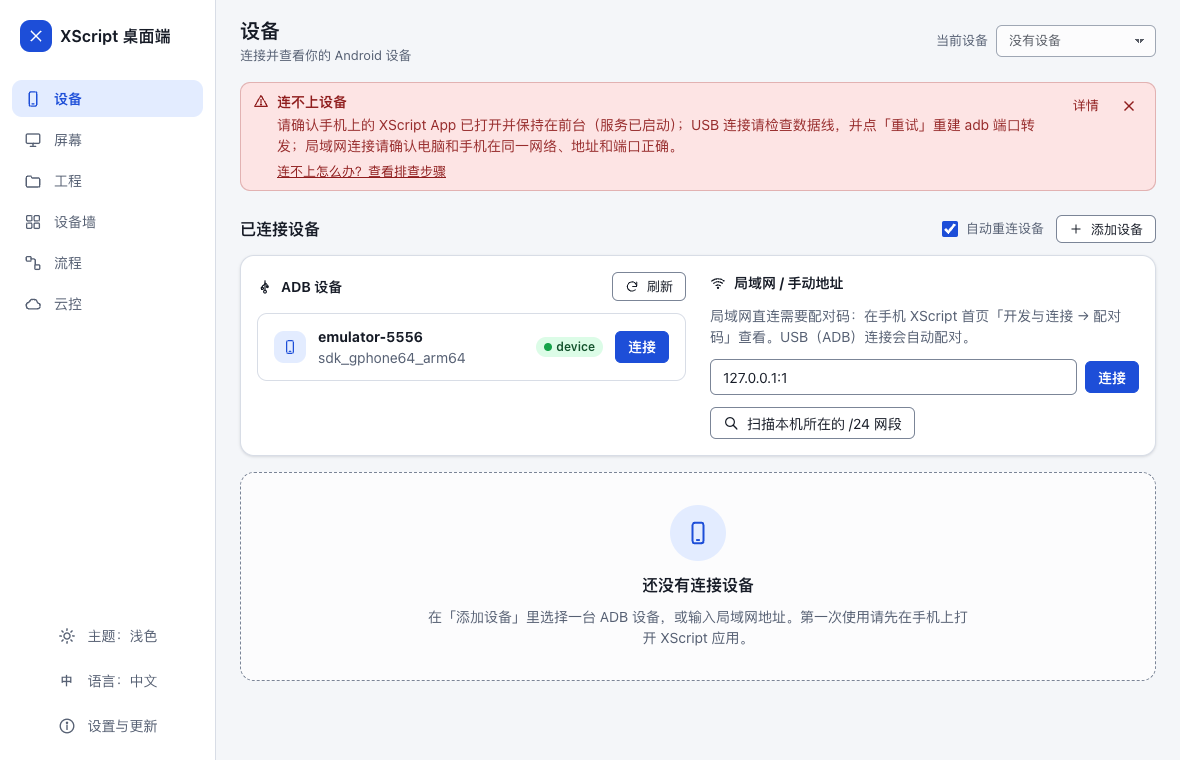
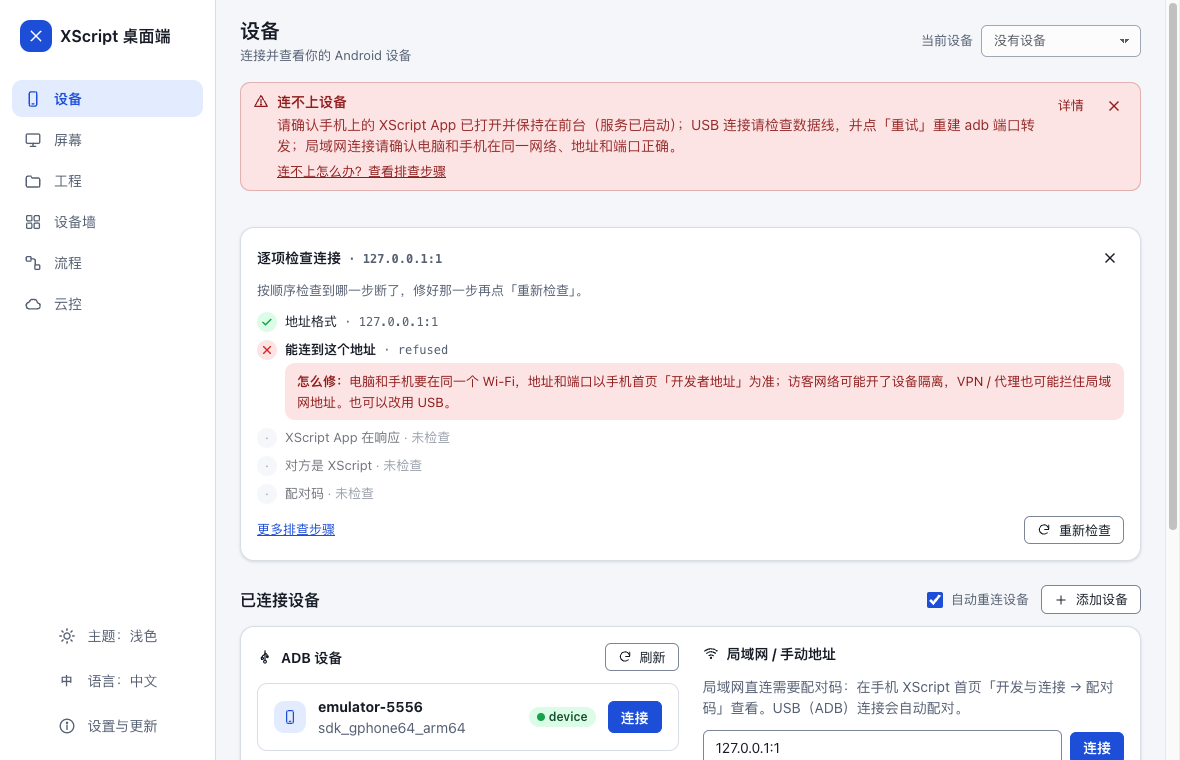
docs: document the connection check and refresh desktop screenshots

diff --git a/desktop/app/tools/screenshot-connect-check.js b/desktop/app/tools/screenshot-connect-check.js
@@ -1,0 +1,14 @@
+// docs/images/desktop-connect-check-*.png: 设备页 → 连接 ADB 设备（手机上的 XScript 未打开）→ 「逐项检查连接」停在「XScript App 在响应」.
+(async () => {
+  const sleep = (ms) => new Promise((r) => setTimeout(r, ms));
+  const wait = async (pred) => {
+    for (let i = 0; i < 80 && !pred(); i++) await sleep(150);
+    return pred();
+  };
+  const nav = [...document.querySelectorAll("button")].find((b) => b.querySelector(".label") && /设备|Devices/.test(b.querySelector(".label").textContent));
+  nav?.click();
+  const btn = await wait(() => [...document.querySelectorAll("button")].find((b) => /^(连接|Connect) /.test(b.getAttribute("aria-label") || "")));
+  btn?.click();
+  await wait(() => document.querySelector(".connect-check .check-step.bad"));
+  document.querySelector(".connect-check")?.scrollIntoView({ block: "center" });
+})();

diff --git a/docs/截图.md b/docs/截图.md
@@ -17,7 +17,8 @@
 | 桌面端各页（`desktop-after-*.png`） | `cd desktop/app && python -m xscript_desktop --screenshot out.png --connect-adb <serial> --click-screenshot --theme dark --size 1180x760`（`--theme` 会真的去按侧栏的主题按钮） |
 | 桌面端工程页（`desktop-projects-{light,dark}.png`） | 设备上放一个带子文件夹的工程「每日签到」，然后 `python -m xscript_desktop --screenshot out.png --connect-adb <serial> --run-js tools/screenshot-projects.js --screenshot-delay 4 --theme light --size 1180x760`，深色把 `light` 换成 `dark` |
 | 桌面端工程搜索（`desktop-projects-search-{light,dark}.png`） | 设备上放工程「每日签到」（几个文件里用到 `ocr_click`），然后同上，把 `--run-js` 换成 `tools/screenshot-search.js`、`--screenshot-delay 6`；用 `--data-dir` 指向临时目录，不碰自己的桌面端数据 |
-| 桌面端连不上设备提示（`desktop-connect-error-{light,dark}.png`） | `python -m xscript_desktop --data-dir <临时目录> --screenshot out.png --run-js tools/screenshot-connect-error.js --screenshot-delay 5 --theme light --size 1180x760`，深色把 `light` 换成 `dark`；不需要设备 |
+| 桌面端连不上设备提示（`desktop-connect-error-{light,dark}.png`） | `python -m xscript_desktop --data-dir <临时目录> --screenshot out.png --run-js tools/screenshot-connect-error.js --screenshot-delay 6 --theme light --size 1180x760`，深色把 `light` 换成 `dark`；不需要设备 |
+| 桌面端逐项检查连接（`desktop-connect-check-{light,dark}.png`） | 手机上先强制停止 XScript（`adb shell am force-stop <包名>`），然后 `python -m xscript_desktop --data-dir <临时目录> --screenshot out.png --run-js tools/screenshot-connect-check.js --screenshot-delay 9 --theme light --size 1180x760`，深色把 `light` 换成 `dark` |
 | VS Code 插件（`vscode-run.png`、`vscode-debug.png`） | `ide/vscode-extension/scripts/vscode-screenshots.sh`：真实 VS Code、隔离配置、模拟器上的演示工程，通过 DevTools 协议截图 |
 | 手机端（`phone-*.png`） | 在一次性模拟器上打开对应页面后 `adb -s <serial> exec-out screencap -p > docs/images/phone-xxx.png` |
 | PyCharm 插件、网页 IDE、管理后台（`pycharm-*`、`ide-*`、`admin-*`） | 目前手动截图：演示工程 / 演示数据，窗口宽度和现有截图保持一致 |

diff --git a/docs/桌面端设计.md b/docs/桌面端设计.md
@@ -1330,6 +1330,7 @@ PRAGMA user_version = 1;
   - **热插拔**：设备页可见时前端每 2.5 s 静默刷新一次 ADB 列表（页面隐藏或上一次还没回来时跳过）。Python 拿上一次的列表做基线：一个序列号**新出现**或从 `unauthorized`/`offline` 变成 `device`，且它有 `auto_connect=1` 的已保存行、当前没有在线记录，就在后台连接（结果走 `device.state`）。第一次列表只建基线（启动由 `connect_saved` 负责）。
   - **健康轮询**：每轮对所有设备**并行**请求 `/status`，单次超时 3 s（原来串行、沿用连接超时）；超时记为离线 + `device.timeout`；请求途中被替换或删除的记录丢弃结果。
   - **局域网扫描**：先扫所有主机的默认端口 9860，再扫 9861–9869；带 `scanId` 时推 `device.scan.found`（每发现一台）和 `device.scan.progress`（节流 0.25 s），`device.scan.cancel` 可中途停止，返回已发现的设备和 `cancelled`。
+  - **逐项检查**（`device.check`，2026-10-21）：`{transport: "adb", serial}` 或 `{transport: "lan", address}`，按 adb → device → authorized → forward（局域网为 address → reach）→ app → xscript → pairing 逐步检查，停在第一个失败的步骤，返回 `{ok, steps: [{id, ok, detail}]}`（没走到的步骤 `ok: null`）。不注册设备，自己建的端口转发和探测连接用完即删；已连接的 USB 设备沿用它的转发。前端在连接失败（连不上、超时、协议不对、adb 设备未就绪）后自动显示「逐项检查连接」面板，地址写错和找不到 adb 只显示错误提示。
   - **当前设备**：前端全局一份（顶栏切换，`localStorage` 记住，重启后恢复）；屏幕、工程页跟随它。编辑器有未保存修改时，切换设备或「忘记」当前设备都先在应用内确认。
 - **WAL 与网络盘/杀软**：把数据库放在本机 `%LOCALAPPDATA%`（不放在网络驱动器）；杀软锁文件的情形 ⚠ 未验证。
 

diff --git a/docs/使用手册.md b/docs/使用手册.md
@@ -544,6 +544,10 @@ yolo export model=runs/detect/train/weights/best.pt format=onnx imgsz=640
 
 **连不上设备时**：设备页顶部的红色提示说明可能的原因，下面的「连不上怎么办？查看排查步骤」会在浏览器里打开 [连不上手机怎么办](TROUBLESHOOTING.md)。设备响应超时、需要配对、地址不像 XScript 设备时也有这条链接。
 
+连接失败后，提示下面会自动出现 **逐项检查连接**：USB 设备按「找到 adb → adb 能看到手机 → 已允许 USB 调试 → 端口转发 → XScript App 在响应 → 对方是 XScript → 配对码」，局域网地址按「地址格式 → 能连到这个地址 → XScript App 在响应 → 对方是 XScript → 配对码」逐步检查，停在第一个不通的步骤并给出修法。修好后点 **重新检查**；全部通过时出现 **连接** 按钮。检查本身不会连接设备，也不会留下端口转发。
+
+![桌面端「逐项检查连接」：手机上的 XScript 没打开，停在「XScript App 在响应」并给出修法](images/desktop-connect-check-light.png)
+
 ![桌面端设备页：「连不上设备」提示和排查步骤链接](images/desktop-connect-error-light.png)
 
 - **macOS**（Apple Silicon）：下载 `xscript-desktop-vX.Y.Z-macos-arm64.dmg`，打开后把 XScript 拖进「应用程序」。安装包只有 ad-hoc 签名、没有公证，第一次打开要在「系统设置 → 隐私与安全性」里点「仍要打开」（macOS 14 及以下：右键 →「打开」）。

diff --git a/desktop/README.md b/desktop/README.md
@@ -70,7 +70,15 @@
 | --- | --- |
 | ![连不上设备浅色](../docs/images/desktop-connect-error-light.png) | ![连不上设备深色](../docs/images/desktop-connect-error-dark.png) |
 
-重新生成：`python -m xscript_desktop --data-dir <临时目录> --screenshot out.png --run-js tools/screenshot-connect-error.js --screenshot-delay 5 --theme light --size 1180x760`（脚本在设备页连接 `127.0.0.1:1`，不需要设备）。
+重新生成：`python -m xscript_desktop --data-dir <临时目录> --screenshot out.png --run-js tools/screenshot-connect-error.js --screenshot-delay 6 --theme light --size 1180x760`（脚本在设备页连接 `127.0.0.1:1`，不需要设备；下面同时出现「逐项检查连接」，停在「能连到这个地址」）。
+
+连接失败后自动出现的「逐项检查连接」（USB 设备，手机上的 XScript 没打开）：
+
+| 浅色 | 深色 |
+| --- | --- |
+| ![逐项检查浅色](../docs/images/desktop-connect-check-light.png) | ![逐项检查深色](../docs/images/desktop-connect-check-dark.png) |
+
+重新生成：手机上先强制停止 XScript，然后把上面的 `--run-js` 换成 `tools/screenshot-connect-check.js`、`--screenshot-delay 9`。
 
 ## P5 安装包与更新（已实现）
 

diff --git a/docs/TROUBLESHOOTING.md b/docs/TROUBLESHOOTING.md
@@ -35,7 +35,7 @@ adb -s <设备> forward tcp:9860 tcp:9860       # 端口以手机首页为准
 - `unauthorized`：在手机上允许 USB 调试弹窗。
 - MuMu 等模拟器先 `adb connect 127.0.0.1:16384`。
 - 模拟器里显示的 `10.0.2.x` 地址从电脑上访问不到，要用 `adb forward` + `127.0.0.1`。
-- 桌面端连 USB 设备时会自动建立转发，失败时点「重试」即可重建。
+- 桌面端连 USB 设备时会自动建立转发，失败时点「重试」即可重建；连接失败后设备页会出现「逐项检查连接」，直接告诉你断在哪一步。
 
 ## 4. Wi‑Fi：同一网络、没有隔离
 
